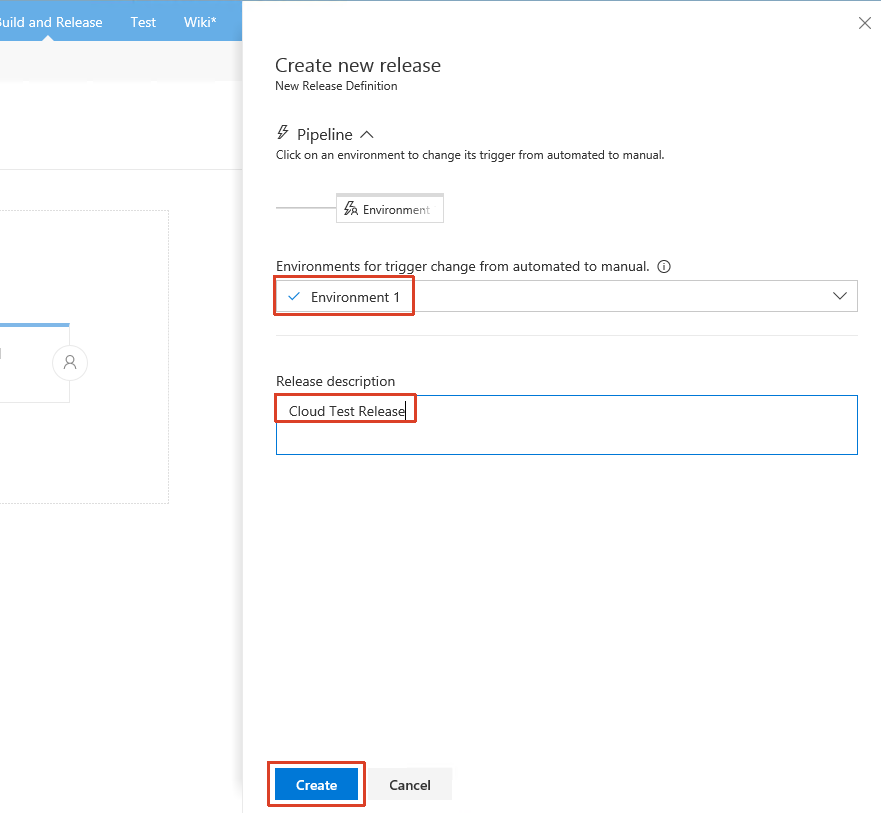
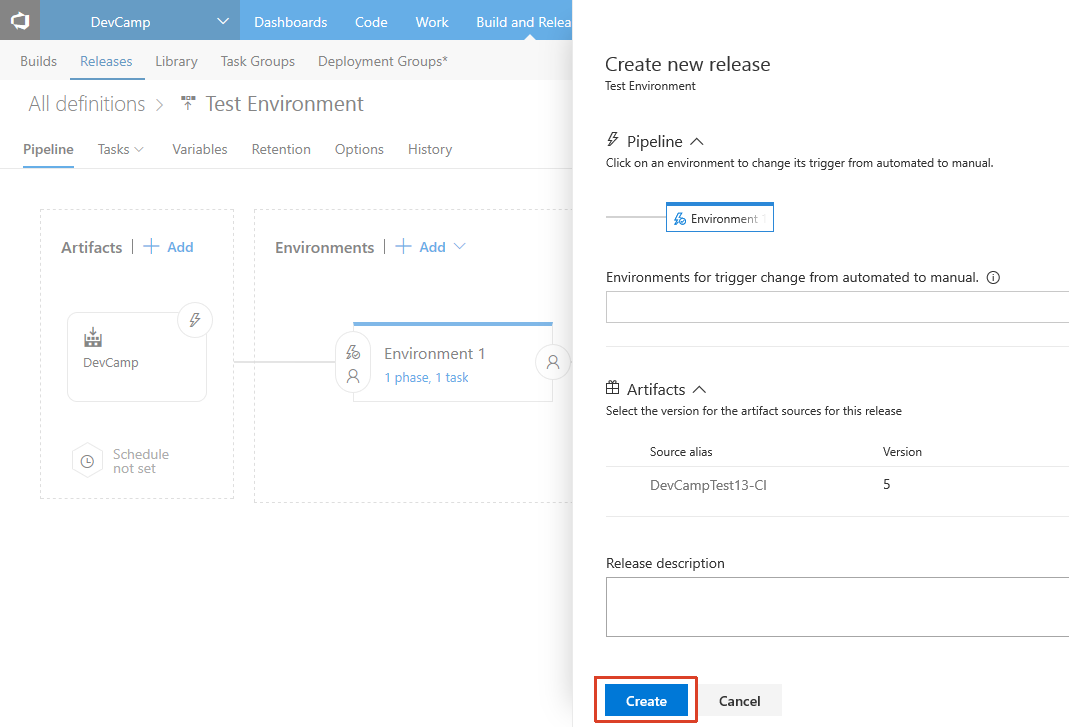
Selecting an environment prevents automatic deployment

diff --git a/HOL/java/04-devops-ci/README.md b/HOL/java/04-devops-ci/README.md
@@ -371,7 +371,7 @@ In the ARM Template that was originally deployed, a web app was created as a dev
 
     ![image](./media/2017-06-27_11_57_00.png)
 
-    In the following window, type a description for the release, choose the environment that you created earlier, and click `Create`:
+    In the following window, type a description for the release and click `Create`:
 
     ![image](./media/2017-06-27_11_59_00.png)
 

diff --git a/HOL/node/04-devops-ci/README.md b/HOL/node/04-devops-ci/README.md
@@ -362,7 +362,7 @@ In the ARM Template that was originally deployed, a web app was created as a dev
 
     ![image](./media/2017-06-27_11_57_00.png)
 
-    In the following window, type a description for the release, choose the environment that you created earlier, and click `Create`:
+    In the following window, type a description for the release and click `Create`:
 
     ![image](./media/2017-06-27_11_59_00.png)
 
